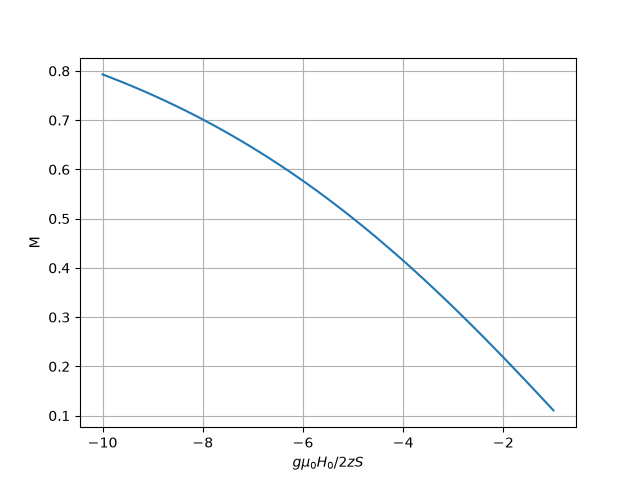
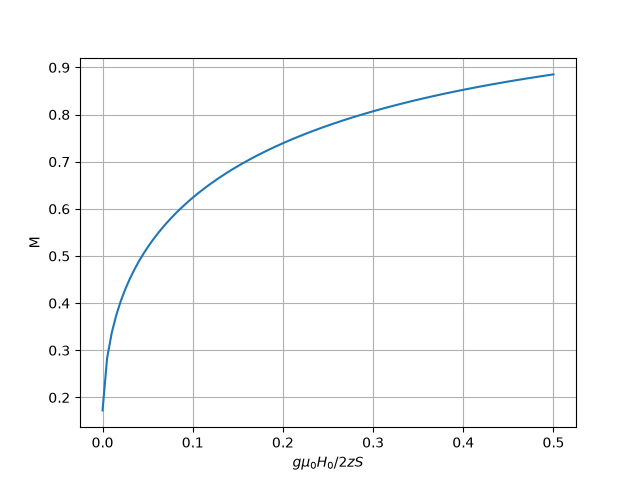
Magnetização próxima à temperatura crítica

diff --git a/campo_medio.py b/campo_medio.py
@@ -1,14 +1,38 @@
 import numpy as np
 import matplotlib.pyplot as plt
 
+C = np.linspace(-0.5,0,100)
+D = np.linspace(0.1,0.99,100)
+x = np.linspace(0,2,1000)
+
+
 #Definindo a função de Brillouin
+
 def Bj(x,J):
-    B_J = (2*J + 1)/(2*J)*(1/np.tanh((2*J+1)/(2*J)*x)) - 1/(2*J)*(1/np.tanh(1/(2*J)*x))
+
+    x = np.asarray(x,dtype=float)
+    B_J = np.zeros_like(x)
+
+    mask = x != 0
+
+    B_J[mask] = (2*J + 1)/(2*J)*(1/np.tanh((2*J+1)/(2*J)*x[mask])) - 1/(2*J)*(1/np.tanh(1/(2*J)*x[mask]))
     return B_J
 
-C = np.linspace(-10,-1,50)
-D = np.linspace(1,10,50)
-x = np.linspace(0.1,10,100)
+#Encontrar intervalos onde há mudança de sinal em f
+def intervalo(f,xmin,xmax,n=1000):
+    
+    pontos = np.linspace(xmin,xmax,n)
+    
+    #Calculando a função f em cada ponto
+    
+    valores = f(pontos)
+
+    #Índices onde a condição f(a)*f(b) < 0 é verdadeira
+
+    indices = np.where(valores[:-1]*valores[1:] < 0)[0]
+
+    return [(pontos[i], pontos[i+1]) for i in indices]
+    
 
 
 #Encontrando as raízes de uma função qualquer
@@ -39,33 +63,91 @@ def inversa(f,a,b,tol=1e-6,iter=1000):
 #Encontrando as raízes para C fixo
 
 def MxT(C,D):
+
     x0 = np.array([])
+    
     for d in D:
-        intercepto = inversa(lambda x: Bj(x,1/2) - (C + d*x),0.1,10)
+    
+        f = lambda x: Bj(x,1/2) - (C + d*x)
+
+        a = 1e-6
+        b = 1/d + 1
+
+        intercepto = inversa(f,a,b)
         x0 = np.append(x0,intercepto)
+
     return x0
 
 #Encontrando as raízes para D fixo
 
 def MxH(C,D):
-    x0 = np.array([])
-    for c in C:
-        intercepto = inversa(lambda x: Bj(x,1/2) - (c + D*x),0.1,10)
-        x0 = np.append(x0,intercepto)
-    return x0
 
+    resultados = []
+    for c in C:
+        f = lambda x: Bj(x,1/2) - (c + D*x)
+
+        intervalos = intervalo(f,-30,30,10000)
+
+        raizes = [inversa(f,a,b) for a,b in intervalos]
+
+        resultados.append((c,raizes))
+        
+    return resultados
+
+#Calculando os intervalos onde há raízes para cada C com D constante
+def raizes_C(C,D):
+
+    ab = []
+
+    for c in C:
+
+        valores = intervalo(
+            lambda x: Bj(x,1/2) - (c + D*x),
+            -10,10
+            )
+        ab.append((c,valores))
+
+    for c,interval in ab:
+        for a,b in interval:
+            print(f"{c}: \t ({a},{b})")
+
+#Calculando os intervalos onde há raízes para cada D com C constante
+
+def raizes_D(C,D):
+
+    ab = []
+
+    for d in D:
+
+        valores = intervalo(
+            lambda x: Bj(x,1/2) - (C + d*x),
+            -10,10
+            )
+        ab.append((d,valores))
+
+    for d,interval in ab:
+        for a,b in interval:
+            print(f"{d}: \t ({a},{b})")
+
+#raizes_D(C[-1],D)
 x0_T = MxT(C[-1],D)
 y = Bj(x0_T,1/2)
+
 plt.plot(D,y)
+plt.title("Magnetização x Temperatura à campo nulo")
 plt.xlabel('kT/2zJS²')
-plt.ylabel("M")
+plt.ylabel(r'$M/M_0$')
 plt.grid(True)
+plt.savefig("./plots/Campo Médio/MxT.png",dpi=300)
 plt.show()
 
-x0_H = MxH(C,D[-1])
-y = Bj(x0_H,1/2)
+#raizes_C(C,D[0])
+
+raizes = MxH(C,D[0])
+r1 = []
+for c,x0 in raizes:
+    r1.append(x0[2])
+
+y = Bj(r1,1/2)
 plt.plot(C,y)
-plt.xlabel(r'$g\mu_0 H_0/2zS$')
-plt.ylabel('M')
-plt.grid(True)
 plt.show()

diff --git a/gdal2.py b/gdal2.py
@@ -4,9 +4,11 @@ import matplotlib.pyplot as plt
 #Definindo os parâmetros
 
 J = 7/2
+kB = 1.38*1e-23
+muB = 9.24*1e-24
 T = np.linspace(0.1,10,1000)
 B = np.linspace(0,10,1000)
-x = B[:,np.newaxis]/T
+x = B[:,np.newaxis]/(T)
 m = np.arange(-J,J+1)
 
 #Efetuando o cálculo da função partição
@@ -69,9 +71,18 @@ def plot_sB(s,T):
     plt.legend()
     plt.xlim(0,10)
     plt.title("Entropia x Temperatura a campo constante")
-    plt.savefig('./SxT.png')
+    plt.annotate(
+        "ln(8)",
+        xy=(1,s[0,0]),
+        xytext=(1,s[0,0]-0.5),
+        arrowprops=dict(
+            arrowstyle="->",
+            color="red",
+            lw=2
+        )
+    )
+    plt.savefig("./plots/GdAl2/SxT.png",dpi=200)
     plt.show()
-    plt.close()
     return
 
 
@@ -82,6 +93,7 @@ def plot_analitico():
     plt.plot(x_an,s_an)
     plt.grid(True)
     plt.show()
+    plt.close()
     return
 
 z,F = calculo_z(m,x,T)

diff --git a/campo_medio_old.py b/campo_medio_old.py
@@ -1,0 +1,37 @@
+import numpy as np
+import matplotlib.pyplot as plt
+
+def Bj(x,J):
+    B_J = (2*J + 1)/(2*J)*(1/np.tanh((2*J+1)/(2*J)*x)) - 1/(2*J)*(1/np.tanh(1/(2*J)*x))
+    return B_J
+
+def inversa(f,y,a,b,tol=1e-6,iter=10000):
+
+    
+    a = np.full(y.shape,a)
+    b = np.full(y.shape,b)
+
+    for n in range(iter):
+        
+        c = (a+b)/2
+
+        esquerda = f(a) - y
+        meio = f(c) - y
+
+        cond = esquerda*meio <= 0
+
+        a = np.where(cond,a,c)
+        b = np.where(cond,c,b)
+
+        if np.all(b - a < tol):
+            break
+
+    return (a+b)/2
+
+        
+y = np.linspace(0,1.5,100)
+B = inversa(lambda x: Bj(x,7/2), y, -1.1,10)
+
+plt.plot(y,B)
+plt.grid(True)
+plt.show()

diff --git a/teste.py b/teste.py
@@ -1,12 +1,12 @@
 import numpy as np
 import matplotlib.pyplot as plt
 
-x = np.linspace(0,10,1000)
-B = np.linspace(0,10,1000)
-T = np.linspace(0,10,1000)
-z = np.sinh(8*x)/np.sinh(x)
+B = np.linspace(0.1,10,1000)[:, np.newaxis]
+T = np.linspace(0.1,10,1000)
+z = np.sinh(8*B/T)/np.sinh(B/T)
 F = -T*np.log(z)
 dT = T[1] - T[0]
 s = -np.gradient(F,dT)
+x = B/T
 plt.plot(x,z)
 plt.show()

diff --git a/spin-meio.py b/spin-meio.py
@@ -12,8 +12,8 @@ dB = B[1] - B[0]
 M = -np.gradient(F,dB,axis=0)
 
 plt.plot(T,M[-1,:],color="red",label="B=10T")
-plt.plot(T,M[500,:],color="blue",label="B=5T")
-plt.plot(T,M[0,:],color="green",label="B=0T")
+plt.plot(T,M[500,:],color="blue",label="B=0T")
+plt.plot(T,M[0,:],color="green",label="B=-10T")
 plt.grid(True)
 plt.xlim(0,100)
 plt.xlabel(r'$k_B$T/$\mu_B$')
